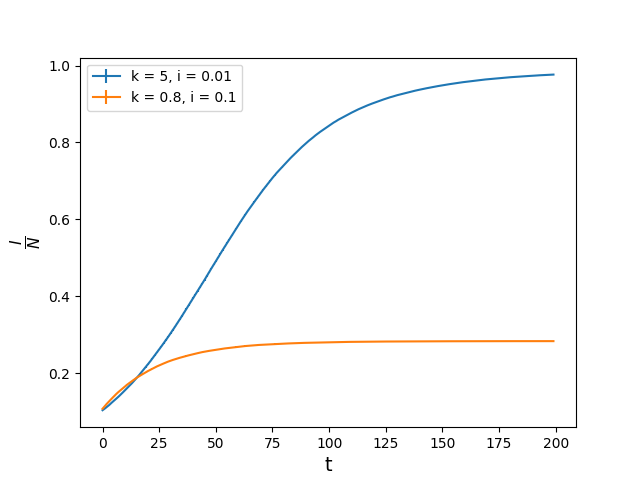
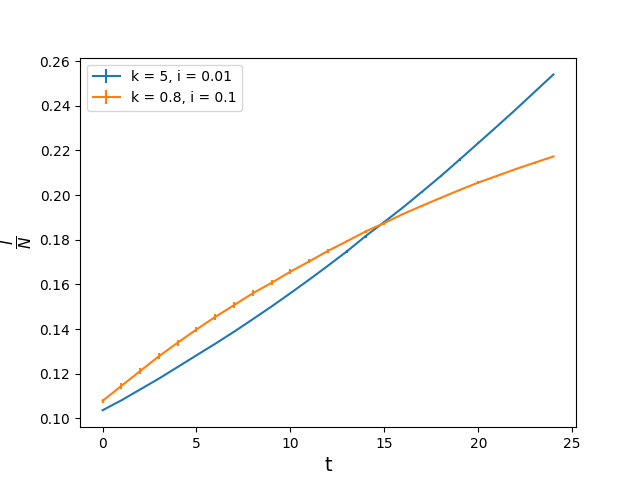
epidemics 4

diff --git a/epidemics1.py b/epidemics1.py
@@ -5,7 +5,11 @@ from random import random
 
 
 class SI_model:
-    def __init__(self, N: int, k: int, i: float, init_i: float):
+    """Susceptible-Infected model for networks"""
+
+    def __init__(
+        self, N: int, k: int, i: float, init_i: float, network: str, power=None
+    ):
         """
         Initialize the graph and set the initial number of infected nodes.
 
@@ -13,13 +17,35 @@ class SI_model:
         k: The number of edges in the graph.
         i: The infection probability.
         init_i: The initial probability that a node is infected.
+        network: Can be "random" or "scale_free"
+        power: Power for the powerlaw_sequence of the "scale_free" network
+               with default None.
         """
-        self.G = nx.fast_gnp_random_graph(n=N, p=k / N)
+
         self.k = k
         self.i = i
         self.N = N
+        self.G = self.setup_network(network, power)
         self.init_i = init_i
         self.reset()
+
+    def setup_network(self, network: str, power=None):
+        """
+        Setup the desired network specified in "network".
+
+        network: Can be "random" or "scale_free"
+        power: Power for the powerlaw_sequence of the "scale_free network
+               with default None.
+
+        Returns the desired nx network.
+        """
+        if network == "random":
+            return nx.fast_gnp_random_graph(n=self.N, p=self.k / self.N)
+
+        if network == "scale_free":
+            s = nx.utils.powerlaw_sequence(self.N, power)
+            s = s / np.mean(s) * self.k
+            return nx.expected_degree_graph(s, selfloops=False)
 
     def init_infected(self, i: float):
         """
@@ -125,10 +151,10 @@ def ex_simulation(model: SI_model, reps: int, t_steps: int):
 
 if __name__ == "__main__":
 
-    model1 = SI_model(N=10**5, k=5, i=0.01, init_i=0.1)
-    model2 = SI_model(N=10**5, k=0.8, i=0.1, init_i=0.1)
+    model1 = SI_model(N=10**5, k=5, i=0.01, init_i=0.1, network="random")
+    model2 = SI_model(N=10**5, k=0.8, i=0.1, init_i=0.1, network="random")
 
-    t_steps = 200
+    t_steps = 25
     reps = 2
 
     plt.figure()

diff --git a/epidemics4.py b/epidemics4.py
@@ -1,0 +1,19 @@
+from epidemics1 import SI_model
+from epidemics1 import ex_simulation
+
+import matplotlib.pyplot as plt
+
+
+model1 = SI_model(N=10**5, k=5, i=0.01, init_i=0.1, network="random")
+model2 = SI_model(N=10**5, k=5, i=0.01, init_i=0.1, network="scale_free", power=2.5)
+
+t_steps = 200
+reps = 1
+
+plt.figure()
+ex_simulation(model1, reps, t_steps)
+ex_simulation(model2, reps, t_steps)
+plt.xlabel("t", fontsize=14)
+plt.ylabel(r"$\frac{I}{N}$", fontsize=16)
+plt.legend(labels=["random", "scale_free"])
+plt.savefig("Ep_4a.png")
